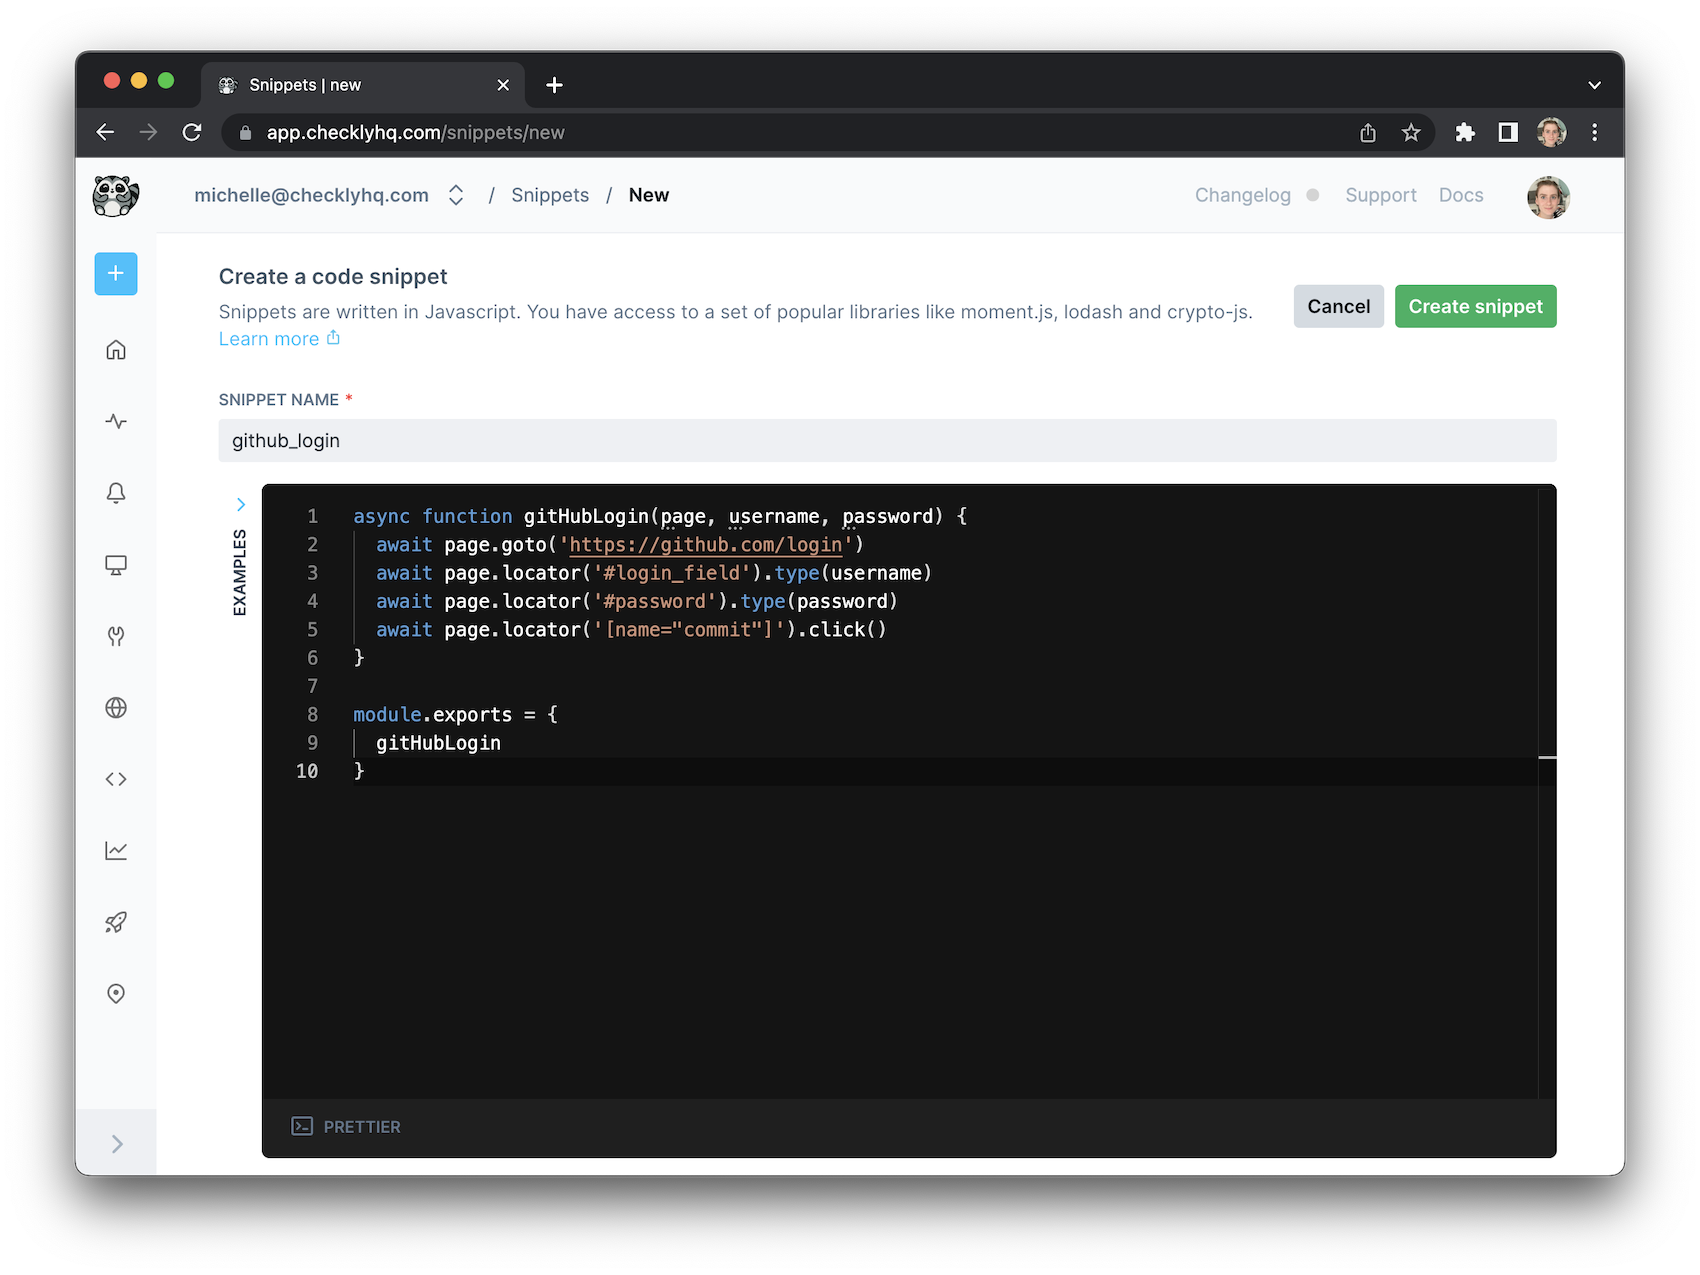
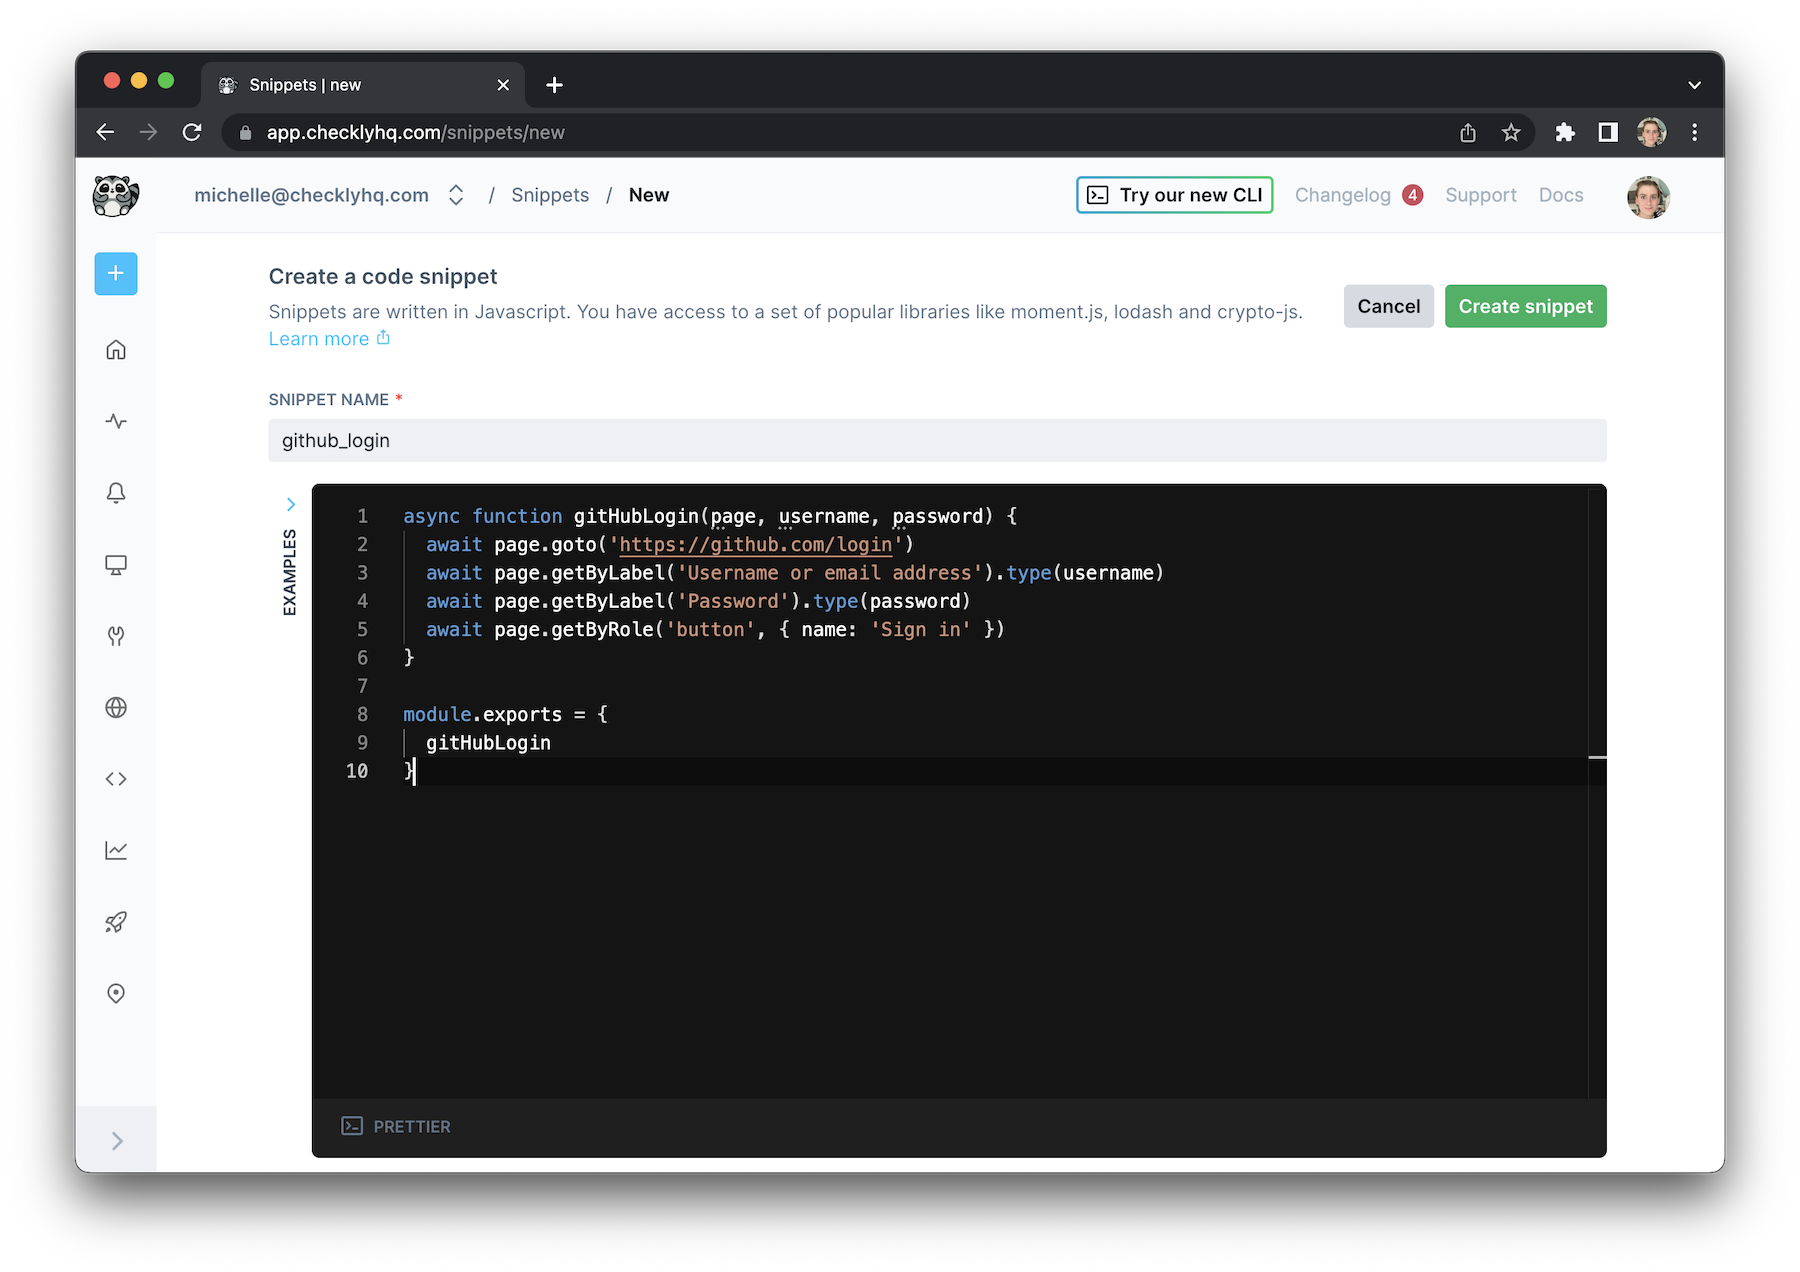
chore: use getByX [sc-13499]

diff --git a/site/content/docs/snippets/_index.md b/site/content/docs/snippets/_index.md
@@ -91,9 +91,9 @@ Create a snippet named `github_login` in the "code snippets" section with a func
 ```ts
 async function gitHubLogin (page, username, password) {
   await page.goto('https://github.com/login')
-  await page.locator('#login_field').type(username)
-  await page.locator('#password').type(password)
-  await page.locator('[name="commit"]').click()
+  await page.getByLabel('Username or email address').type(username)
+  await page.getByLabel('Password').type(password)
+  await page.getByRole('button', { name: 'Sign in' })
 }
 
 module.exports = {
@@ -105,9 +105,9 @@ module.exports = {
 ```js
 async function gitHubLogin (page, username, password) {
   await page.goto('https://github.com/login')
-  await page.locator('#login_field').type(username)
-  await page.locator('#password').type(password)
-  await page.locator('[name="commit"]').click()
+  await page.getByLabel('Username or email address').type(username)
+  await page.getByLabel('Password').type(password)
+  await page.getByRole('button', { name: 'Sign in' })
 }
 
 module.exports = {
